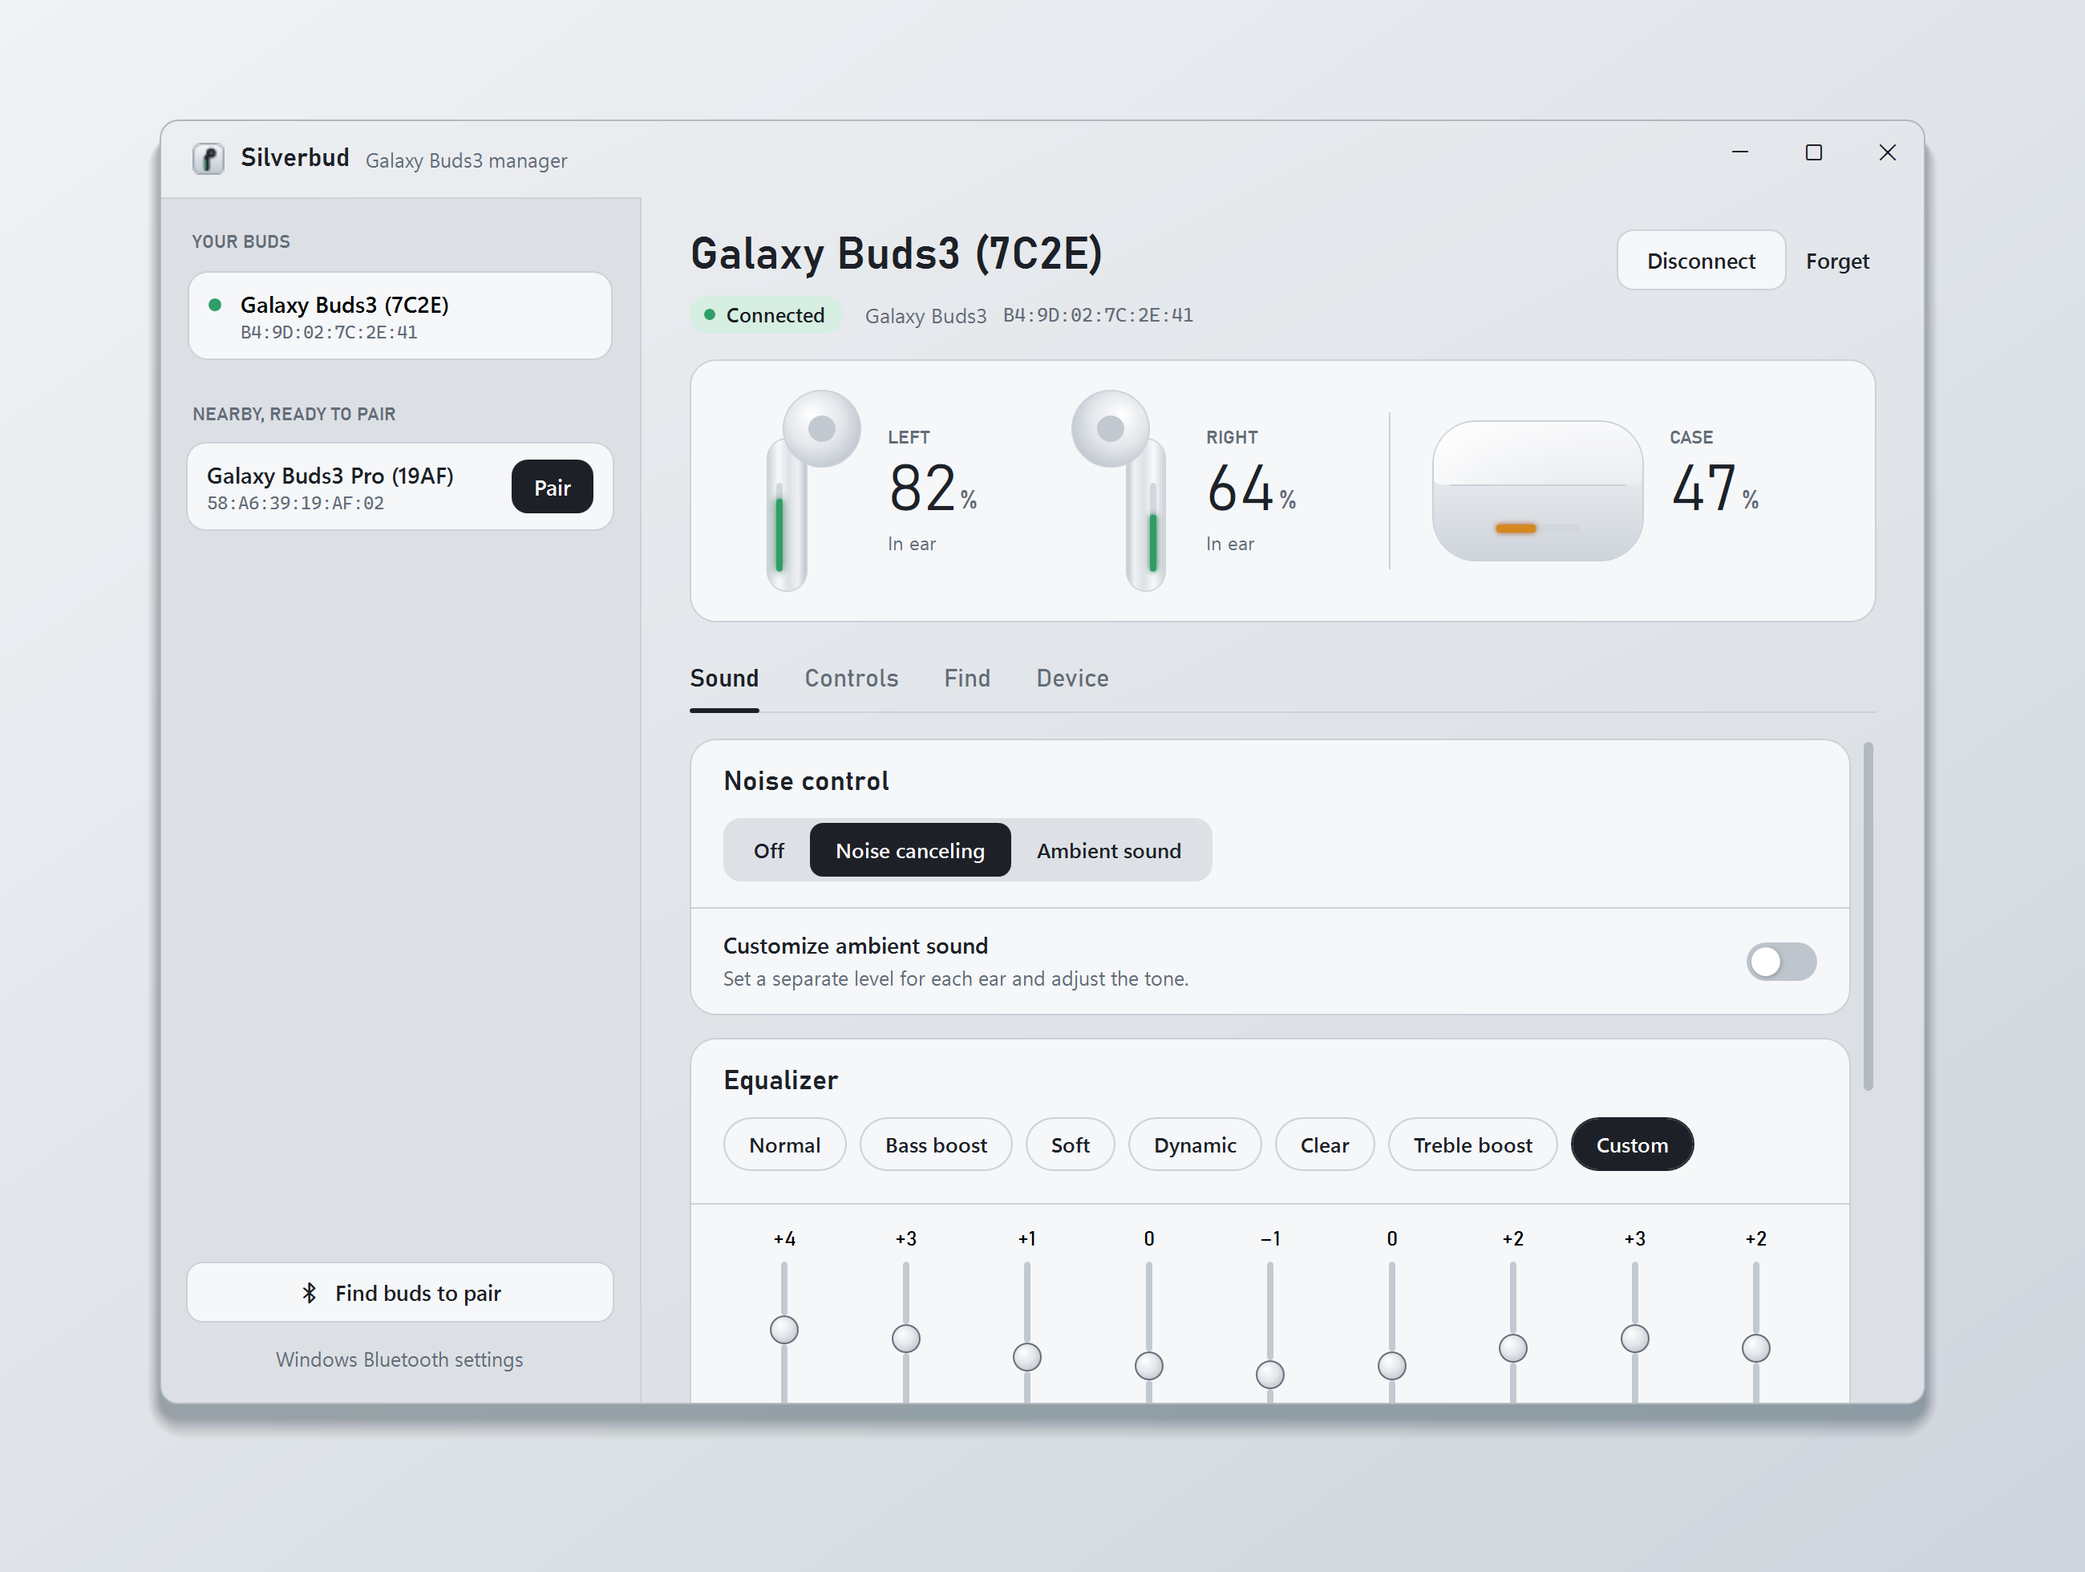
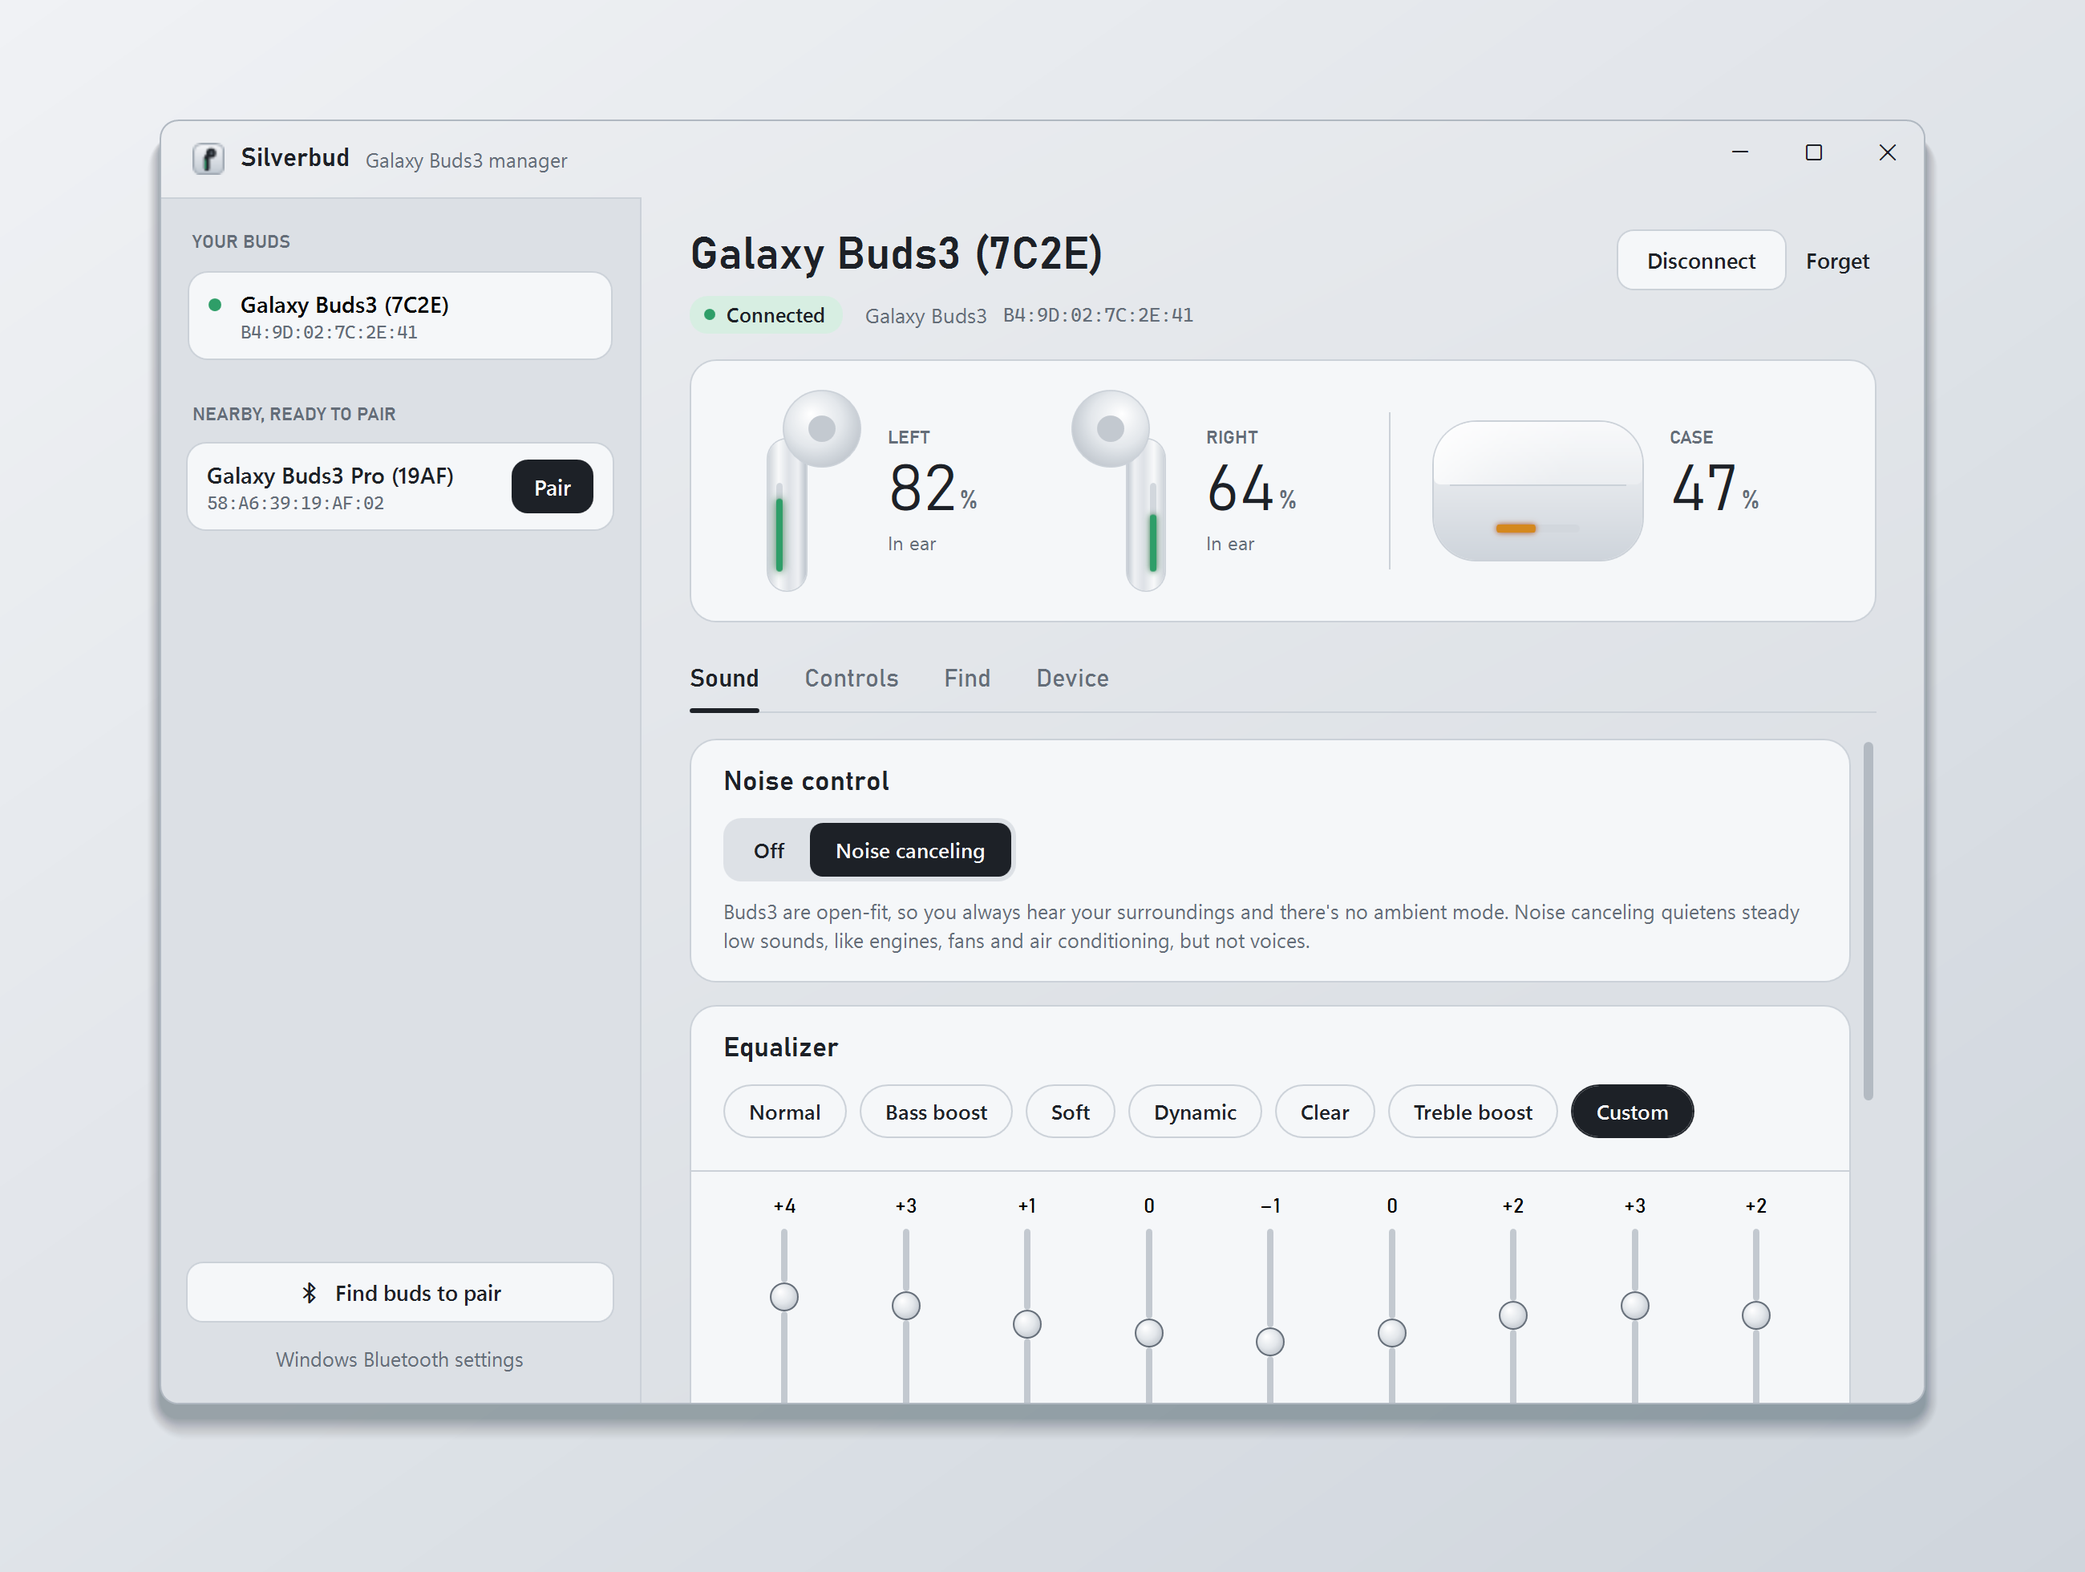
1.0.3: hide ambient sound on the open-fit Buds3
The Buds3 (SM-R530) have no ambient mode: they answer NOISE_CONTROLS [02]
with ack [01] and stay in noise canceling. Offer ambient sound and its
level/custom settings only when the firmware isn't a Buds3, and explain
what noise canceling does on open-fit buds instead.

diff --git a/src/Silverbud/MainWindow.xaml b/src/Silverbud/MainWindow.xaml
@@ -241,9 +241,14 @@
                                                         <RadioButton Style="{StaticResource Segment}" GroupName="nc" Content="Noise canceling"
                                                                      IsChecked="{Binding NoiseControl, Converter={StaticResource IntEq}, ConverterParameter=1}" />
                                                         <RadioButton Style="{StaticResource Segment}" GroupName="nc" Content="Ambient sound"
-                                                                     IsChecked="{Binding NoiseControl, Converter={StaticResource IntEq}, ConverterParameter=2}" />
+                                                                     IsChecked="{Binding NoiseControl, Converter={StaticResource IntEq}, ConverterParameter=2}"
+                                                                     Visibility="{Binding HasAmbientSound, Converter={StaticResource BoolVis}}" />
                                                     </StackPanel>
                                                 </Border>
+                                                <!-- Buds3 (open fit): no ambient mode, and noise canceling is gentle -->
+                                                <TextBlock Margin="0,10,0,0" Style="{StaticResource Hint}"
+                                                           Visibility="{Binding HasAmbientSound, Converter={StaticResource InvBoolVis}}"
+                                                           Text="Buds3 are open-fit, so you always hear your surroundings and there's no ambient mode. Noise canceling quietens steady low sounds, like engines, fans and air conditioning, but not voices." />
                                                 <!-- Shown when the buds refuse a mode because only one bud is worn -->
                                                 <Border Margin="0,14,0,0" Padding="14,12" CornerRadius="10" BorderThickness="1"
                                                         Background="{StaticResource NoticeBrush}" BorderBrush="{StaticResource NoticeRimBrush}"
@@ -269,19 +274,21 @@
                                                           Visibility="{Binding NoiseControl, Converter={StaticResource IntEqVis}, ConverterParameter=2}">
                                                 <Slider Width="200" Style="{StaticResource HSlider}" Minimum="0" Maximum="2" Value="{Binding AmbientVolume}" />
                                             </c:SettingRow>
-                                            <c:SettingRow Title="Customize ambient sound" Description="Set a separate level for each ear and adjust the tone.">
-                                                <CheckBox Style="{StaticResource Switch}" IsChecked="{Binding AmbientCustomOn}" />
-                                            </c:SettingRow>
-                                            <StackPanel Visibility="{Binding AmbientCustomOn, Converter={StaticResource BoolVis}}">
-                                                <c:SettingRow Title="Left ear level">
-                                                    <Slider Width="200" Style="{StaticResource HSlider}" Minimum="0" Maximum="2" Value="{Binding AmbientCustomLeft}" />
+                                            <StackPanel Visibility="{Binding HasAmbientSound, Converter={StaticResource BoolVis}}">
+                                                <c:SettingRow Title="Customize ambient sound" Description="Set a separate level for each ear and adjust the tone.">
+                                                    <CheckBox Style="{StaticResource Switch}" IsChecked="{Binding AmbientCustomOn}" />
                                                 </c:SettingRow>
-                                                <c:SettingRow Title="Right ear level">
-                                                    <Slider Width="200" Style="{StaticResource HSlider}" Minimum="0" Maximum="2" Value="{Binding AmbientCustomRight}" />
-                                                </c:SettingRow>
-                                                <c:SettingRow Title="Tone" Description="From softer to clearer.">
-                                                    <Slider Width="200" Style="{StaticResource HSlider}" Minimum="0" Maximum="4" Value="{Binding AmbientTone}" />
-                                                </c:SettingRow>
+                                                <StackPanel Visibility="{Binding AmbientCustomOn, Converter={StaticResource BoolVis}}">
+                                                    <c:SettingRow Title="Left ear level">
+                                                        <Slider Width="200" Style="{StaticResource HSlider}" Minimum="0" Maximum="2" Value="{Binding AmbientCustomLeft}" />
+                                                    </c:SettingRow>
+                                                    <c:SettingRow Title="Right ear level">
+                                                        <Slider Width="200" Style="{StaticResource HSlider}" Minimum="0" Maximum="2" Value="{Binding AmbientCustomRight}" />
+                                                    </c:SettingRow>
+                                                    <c:SettingRow Title="Tone" Description="From softer to clearer.">
+                                                        <Slider Width="200" Style="{StaticResource HSlider}" Minimum="0" Maximum="4" Value="{Binding AmbientTone}" />
+                                                    </c:SettingRow>
+                                                </StackPanel>
                                             </StackPanel>
                                         </StackPanel>
                                     </Border>
@@ -493,7 +500,7 @@
                                         <c:SettingRow Title="Use ambient sound during calls" Description="Hear your own voice more naturally while you talk.">
                                             <CheckBox Style="{StaticResource Switch}" IsChecked="{Binding Sidetone}" />
                                         </c:SettingRow>
-                                        <c:SettingRow Title="Noise controls with one earbud" Description="Keep noise canceling or ambient sound on while wearing only one bud.">
+                                        <c:SettingRow Title="Noise controls with one earbud" Description="Keep noise controls on while wearing only one bud.">
                                             <CheckBox Style="{StaticResource Switch}" IsChecked="{Binding NoiseControlsWithOneEarbud}" />
                                         </c:SettingRow>
                                     </StackPanel>

diff --git a/src/Silverbud/ViewModels/MainViewModel.cs b/src/Silverbud/ViewModels/MainViewModel.cs
@@ -1302,7 +1302,17 @@ public sealed class MainViewModel : Observable, IDisposable
     // ───── About ─────
 
     private string _firmware = "—", _hardware = "—", _temperatures = "—", _voltages = "—";
-    public string Firmware { get => _firmware; private set => Set(ref _firmware, value); }
+    public string Firmware
+    {
+        get => _firmware;
+        private set
+        {
+            if (Set(ref _firmware, value))
+                Raise(nameof(HasAmbientSound));
+        }
+    }
+
+    public bool HasAmbientSound => BudsModel.HasAmbientSound(_firmware);
     public string Hardware { get => _hardware; private set => Set(ref _hardware, value); }
     public string Temperatures { get => _temperatures; private set => Set(ref _temperatures, value); }
     public string Voltages { get => _voltages; private set => Set(ref _voltages, value); }

diff --git a/tests/Silverbud.Tests/Program.cs b/tests/Silverbud.Tests/Program.cs
@@ -87,5 +87,10 @@ var info = StatusParser.ParseDebugData(Convert.FromHexString(
 Check("Buds3 live: firmware R530XXU0AYG3, zeroed sensors reported as unknown",
     info.Firmware == "R530XXU0AYG3" && info.TemperatureL is null && info.VoltageL is null);
 
+// Live 2026-11-03: Buds3 answered NOISE_CONTROLS [02] (ambient) with ack [01], staying in noise canceling
+Check("Buds3 (R530) have no ambient sound", !BudsModel.HasAmbientSound(info.Firmware));
+Check("Buds3 Pro (R630) have ambient sound", BudsModel.HasAmbientSound("R630XXU0AYG3"));
+Check("no ambient sound before the firmware is known", !BudsModel.HasAmbientSound("—") && !BudsModel.HasAmbientSound(""));
+
 Console.WriteLine(failures == 0 ? "\nAll protocol checks passed." : $"\n{failures} check(s) failed.");
 return failures == 0 ? 0 : 1;

diff --git a/src/Silverbud/Core/BudsStatus.cs b/src/Silverbud/Core/BudsStatus.cs
@@ -64,6 +64,16 @@ public sealed class DeviceDiagnostics
     public double? VoltageR { get; set; }
 }
 
+public static class BudsModel
+{
+    /// <summary>
+    /// Ambient sound exists on the Buds3 Pro only. The open-fit Buds3 (SM-R530, firmware "R530…") already let the room in,
+    /// and answer a switch to ambient by staying in their current mode. Unknown until the firmware version arrives.
+    /// </summary>
+    public static bool HasAmbientSound(string firmware) =>
+        firmware.Length >= 4 && char.IsLetter(firmware[0]) && !firmware.StartsWith("R530", StringComparison.OrdinalIgnoreCase);
+}
+
 /// <summary>Payload layouts for the Galaxy Buds3 (Buds3 Pro shares everything read here).</summary>
 public static class StatusParser
 {

diff --git a/src/Silverbud/MainWindow.xaml.cs b/src/Silverbud/MainWindow.xaml.cs
@@ -108,7 +108,10 @@ public partial class MainWindow : Window
             noise.Enabled = ring.Enabled = _vm.IsLinked;
             ring.Text = _vm.RingLabel;
             foreach (Forms.ToolStripMenuItem item in noise.DropDownItems)
+            {
                 item.Checked = (int)item.Tag! == _vm.NoiseControl;
+                item.Visible = (int)item.Tag! != 2 || _vm.HasAmbientSound;
+            }
         };
 
         var tray = new Forms.NotifyIcon

diff --git a/README.md b/README.md
@@ -42,7 +42,7 @@ Silverbud talks to the buds directly over Bluetooth, the same way the phone app 
 |---|---|
 | **Pair and connect** | Find buds in pairing mode and pair them. Connect and disconnect the audio with one click. It connects automatically when you take the buds out of the case, and turns Bluetooth on if it's off. Works with both **LE Audio** and classic Bluetooth. |
 | **Battery** | Left, right and case levels, live. Shows whether each bud is in your ear, out, in the case or charging. Notifies you when a bud runs low. |
-| **Noise control** | Off, noise canceling or ambient sound. Ambient level, plus separate left/right levels and tone. |
+| **Noise control** | Off or noise canceling. On the Buds3 Pro, also ambient sound, with an ambient level, separate left/right levels and tone. The open-fit Buds3 have no ambient mode. |
 | **Equalizer** | Normal, Bass boost, Soft, Dynamic, Clear, Treble boost, and a 9-band custom EQ (experimental). |
 | **Listening** | Left/right balance and game mode (lower audio delay). |
 | **Pinch controls** | Turn each gesture on or off, including call gestures. Pick the pinch-and-hold action per ear (noise controls, voice assistant, volume, Spotify). Double-tap the earbud edge for volume. |
@@ -55,7 +55,7 @@ Silverbud talks to the buds directly over Bluetooth, the same way the phone app 
 
 <table>
   <tr>
-    <td width="50%"><img src="docs/images/screenshot-sound.png" alt="Sound tab: noise control, ambient sound, equalizer with custom 9-band sliders"><p align="center"><b>Sound</b>: noise control and equalizer</p></td>
+    <td width="50%"><img src="docs/images/screenshot-sound.png" alt="Sound tab: noise control and equalizer with custom 9-band sliders"><p align="center"><b>Sound</b>: noise control and equalizer</p></td>
     <td width="50%"><img src="docs/images/screenshot-controls.png" alt="Controls tab: pinch gesture switches"><p align="center"><b>Controls</b>: pinch gestures</p></td>
   </tr>
   <tr>
@@ -118,7 +118,7 @@ The buds are connected but won't offer their settings channel. This usually mean
 <details>
 <summary><b>Noise canceling switches back to Off</b></summary>
 
-The Buds3 refuse noise canceling and ambient sound while you wear only one bud, unless **Noise controls with one earbud** is on. When that happens, Silverbud shows a notice in the Noise control card. Select **Allow with one bud** to turn the setting on and switch modes in one go. You can also change the setting in the **Device** tab.
+The buds refuse noise canceling (and ambient sound, on the Buds3 Pro) while you wear only one bud, unless **Noise controls with one earbud** is on. When that happens, Silverbud shows a notice in the Noise control card. Select **Allow with one bud** to turn the setting on and switch modes in one go. You can also change the setting in the **Device** tab.
 </details>
 
 <details>

diff --git a/docs/PROTOCOL.md b/docs/PROTOCOL.md
@@ -41,7 +41,7 @@ Example: noise canceling on → `FD 04 00 78 01 <crc lo> <crc hi> DD`.
 | 111 | `SET_ANC_WITH_ONE_EARBUD` | PC → buds | `[1/0]` |
 | 114 | `PAIRING_MODE` | PC → buds | none. The buds disconnect and become discoverable. |
 | 119 | `NOISE_CONTROLS_UPDATE` | buds → PC | `[mode]` when changed on the buds |
-| 120 | `NOISE_CONTROLS` | PC → buds | `[mode]`: 0 off, 1 noise canceling, 2 ambient (3 adaptive, Pro only) |
+| 120 | `NOISE_CONTROLS` | PC → buds | `[mode]`: 0 off, 1 noise canceling, 2 ambient, 3 adaptive (2 and 3 on the Buds3 Pro only: the Buds3 ack `[120, current mode]` and stay put) |
 | 130 | `CUSTOMIZE_AMBIENT_SOUND` | PC → buds | `[on, left 0–2, right 0–2, tone 0–4]` |
 | 132 | `AMBIENT_VOLUME` | PC → buds | `[0–2]` |
 | 133 | `ADJUST_SOUND_SYNC` | PC → buds | Game mode `[1/0]` |

diff --git a/CHANGELOG.md b/CHANGELOG.md
@@ -1,5 +1,9 @@
 # Changelog
 
+## 1.0.3 (2026-11-03)
+
+- **No more Ambient sound option on the Buds3.** The open-fit Buds3 have no ambient mode, and the buds turned down every request for it, so selecting it did nothing. Silverbud now offers Ambient sound and its level and tone settings only on the Buds3 Pro. On the Buds3, the Noise control card explains what noise canceling does on open-fit buds instead: it quietens steady low sounds, not voices.
+
 ## 1.0.2 (2026-11-01)
 
 - **Connects by itself when the buds are already connected.** Silverbud no longer gives up after three tries. While your buds are connected to the PC it keeps retrying in the background (4 s, 8 s, 15 s, 30 s, then every minute), so you don't need to press Connect.
